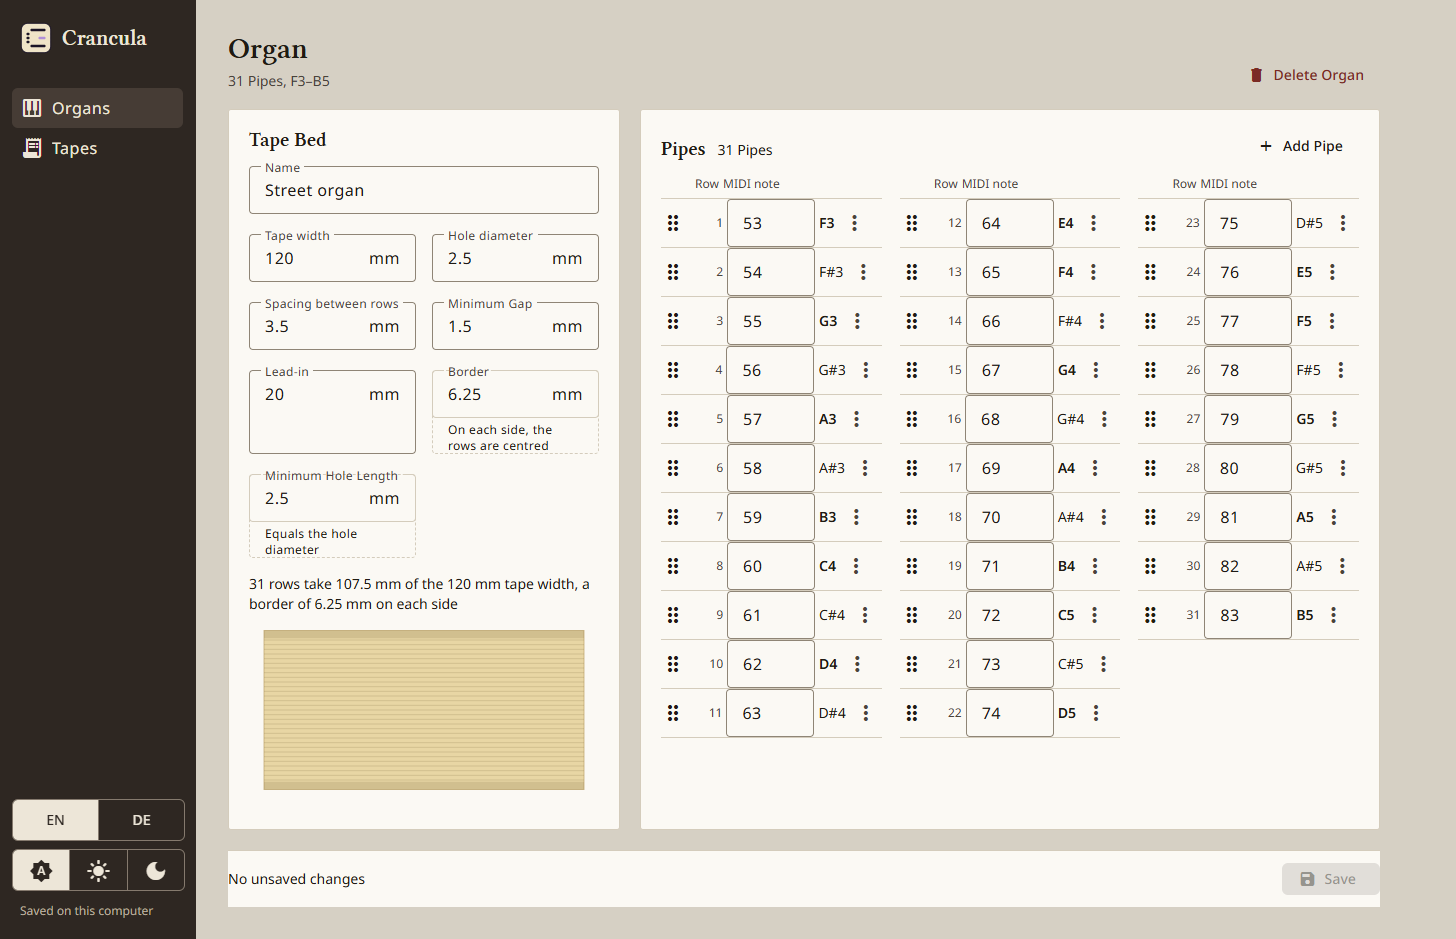
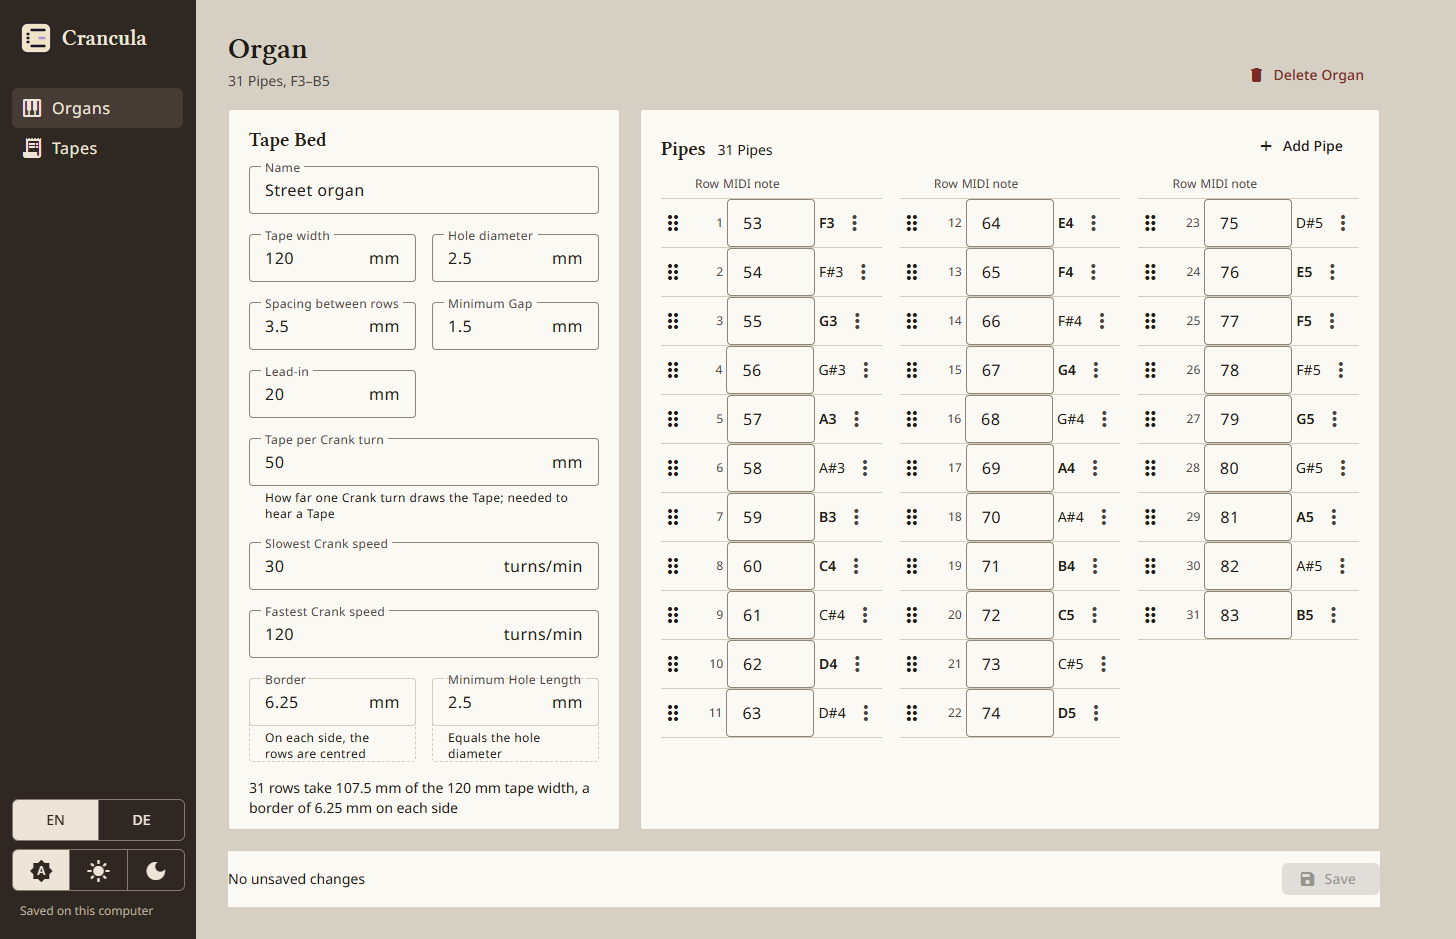
docs(readme): retake the screenshots with a Tape per Crank turn

Changed region(s): [[0.1545, 0.4633, 0.4018, 0.8647], [0.3091, 0.3706, 0.4018, 0.4941], [0.3709, 0.4015, 0.4018, 0.4324]]

diff --git a/e2e/ux/readme.capture.ts b/e2e/ux/readme.capture.ts
@@ -2,7 +2,7 @@ import {expect, test, type Page} from '@playwright/test';
 import {join} from 'node:path';
 import {encodeSmf, type SmfTimedEvent} from '../../api/song/midi/smf-test-helper';
 import {launchApp, type LaunchedApp} from '../support/launch-app';
-import {defineStreetOrgan} from '../support/organ-editor';
+import {defineStreetOrgan, saveOrgan} from '../support/organ-editor';
 
 // Screenshots for the README; run with `$env:README_SHOTS='1'; npm run ux:screens`.
 const SHOTS = join(__dirname, '../../documentation/images/screenshots');
@@ -56,6 +56,8 @@ test.describe('README screenshots', () => {
   test('captures the README screens', async () => {
     const {window} = launched;
     await defineStreetOrgan(window);
+    await window.getByTestId('tape-per-crank-turn').fill('50');
+    await saveOrgan(window);
     await window.getByRole('link', {name: 'Organs'}).click();
     await window.getByTestId('organ').first().click();
     await expect(window.getByTestId('save-organ')).toBeVisible();
